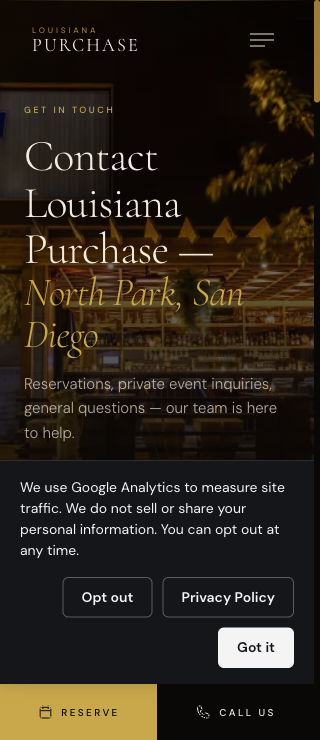
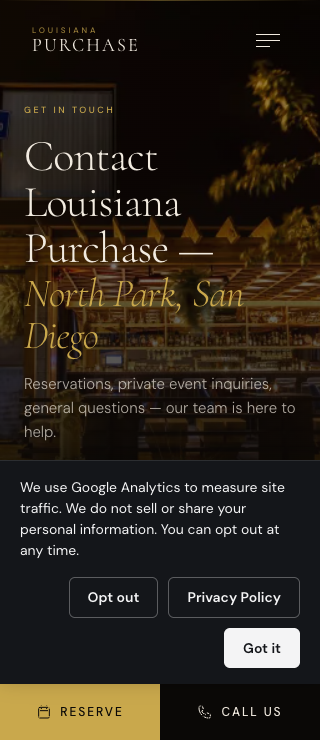
Fix mobile bar menu focus and increase label readability

diff --git a/src/styles/global.css b/src/styles/global.css
@@ -22,10 +22,15 @@
 
 /* One shared reserve for the fixed bar, including two lines of enlarged CTA
    text and the device safe area. Desktop keeps its existing layout. */
-:root { --mobile-action-bar-space: 0px; }
+:root {
+  --mobile-action-bar-font-size: var(--text-xs);
+  --mobile-action-bar-line-height: 1.2;
+  --mobile-action-bar-padding: 0.75rem;
+  --mobile-action-bar-space: 0px;
+}
 @media (width < 1280px) {
   :root {
-    --mobile-action-bar-space: calc(max(3.5rem, 2 * 0.625rem * 1.2 + 2rem) + env(safe-area-inset-bottom, 0px));
+    --mobile-action-bar-space: calc(max(3.5rem, 2 * var(--mobile-action-bar-font-size) * var(--mobile-action-bar-line-height) + 2 * var(--mobile-action-bar-padding)) + env(safe-area-inset-bottom, 0px));
   }
   html { scroll-padding-bottom: var(--mobile-action-bar-space); }
   body.public-site { padding-bottom: var(--mobile-action-bar-space); }

diff --git a/docs/mobile-action-bar/verification.md b/docs/mobile-action-bar/verification.md
@@ -6,9 +6,9 @@ Implemented on `feature/mobile-reserve-call-bar`, based on current `origin/main`
 
 `MobileActionBar.astro` is rendered once by the shared public Layout. All 36 built public HTML pages (including blog, event detail pages, privacy and 404) have the two semantic links. No framework hydration, dependencies or page edits. Visibility uses SiteNav's 1280px desktop breakpoint. The existing viewport already includes `viewport-fit=cover`.
 
-Actions have a 56px minimum height plus `env(safe-area-inset-bottom)`. A shared CSS reserve supplies body padding, scroll padding and the privacy notice offset; its text allowance supports wrapped labels. Decorative SVGs, real hrefs and inset focus outlines support access without site JavaScript. The bar uses z-index overlay (20), below drawer (39), navigation (40), privacy notice (9999), and native dialog top layer. Privacy actions can wrap at 320px.
+Actions have a shared 56px normal height plus `env(safe-area-inset-bottom)`. Shared CSS values for the 12px font token, line height and text space compute the bar height, body padding, scroll padding and privacy notice offset. The bar uses that computed block size so wrapped labels cannot expand its grid beyond the page reserve. Icon and label groups can wrap when text is enlarged. Decorative SVGs, real hrefs and inset focus outlines support access without site JavaScript. The bar uses z-index overlay (20), below drawer (39), navigation (40), privacy notice (9999), and native dialog top layer. Privacy actions can wrap at 320px.
 
-Colors from the active Tailwind 4 global @theme: gold `#C9A84C`, obsidian `#0A0806`, parchment `#F2EBE0`. Contrast: gold/obsidian 8.75:1; parchment/obsidian 16.89:1. Typography matches the existing mobile Reserve a Table CTA: DM Sans Variable, 500 weight, 0.625rem, uppercase, 0.24em tracking. Installed versions: Astro 6.4.4, Tailwind 4.3.0; npm/package-lock.
+Colors from the active Tailwind 4 global @theme: gold `#C9A84C`, obsidian `#0A0806`, parchment `#F2EBE0`. Contrast: gold/obsidian 8.75:1; parchment/obsidian 16.89:1. Typography matches the existing mobile Reserve a Table CTA: DM Sans Variable, 500 weight, the existing 0.75rem / 12px `--text-xs` token, uppercase, and the existing 0.16em `--tracking-widest` token. Installed versions: Astro 6.4.4, Tailwind 4.3.0; npm/package-lock.
 
 ## Destinations
 
@@ -44,6 +44,30 @@ External follow-up: in GA4 Admin → Custom definitions, check for an existing e
 - JavaScript-disabled mobile context: both semantic links render with exact destinations and 56px touch targets; reservation default navigation verified with the external response intercepted. Telephone OS handoff is not available in this browser.
 - Analytics: original shared inline script injected into a local test response with a synthetic measurement ID, Google script blocked. Programmatic browser link activation gives exactly one business event per link through contact → menu → contact navigation; the site did not prevent default. Opt out prevents further events. This confirms local dispatch, not GA4 receipt.
 - Private event page iframe and surrounding scroll reserve inspected. Toast's external iframe stayed unloaded, so its internal fields/submission controls and keyboard interaction could not be verified. Physical mobile keyboard, telephone app handoff and physical device checks remain for review.
+
+## PR #12 scoped corrections (2026-10-06)
+
+The existing SiteNav controller now sets native `inert` on the bar when opening its drawer and removes it through the existing closeDrawer function. Toggle, Escape and menu-link navigation use that same lifecycle. A desktop matchMedia change calls closeDrawer, preventing a retained lock when returning to mobile. No inert attribute is rendered in HTML, so links retain normal interaction without site JavaScript. No second menu controller or menu state was added.
+
+Labels now use the existing 12px typography token with 0.16em tracking. The former duplicated 0.625rem sizing assumption is removed. Font, line height and text allowance feed one shared computed block size, used by both the fixed bar and the page reserve. Normal height remains 56px; enlarged groups can wrap inside their action.
+
+Actual local Chrome / Playwright browser regression verification (Chrome 154):
+
+- Native Enter opens the menu. 70 forward Tabs plus 70 reverse Tabs never focus either bar link; a focusin listener records zero bar focus events while inert.
+- Native toggle Enter, Escape, menu-link Enter navigation, and crossing 1280px then returning to 320px all clear inert. After every close path, native Tab from the final footer link reaches Reserve, then Call Us. No-JavaScript HTML retains both real links without inert.
+- At 320/375/390/430px and 100/200/300/400% root text: equal halves, all label bounds inside their actions, and bar height equal to body reserve (56/112/168/224px respectively). Normal text has no horizontal overflow. Existing page headings can overflow when enlarged; their presentation was preserved.
+- Visible at 1279px; hidden at 1280px and 1440px. No retained inert state after returning to mobile.
+- A 34px Chromium safe-area override produces matching 90px bar and body reserve. Footer bottom scrolls above the bar.
+- Native keyboard Enter activation of each bar link produces exactly one reservation_click and one phone_click, with cta_location: mobile_bottom_bar, through contact → menu → contact. Synthetic GA ID and blocked Google network requests verify local dispatch only.
+- Final production build passes. Five focused Node tests pass. Full npm test has 9 passing and the same four baseline Keystatic image failures. Astro check has only the previously documented Keystatic TS2353 baseline error and two existing hints. Available Prettier passes the browser checker and report; Astro formatting plugin/lint script remain unavailable. git diff --check passes.
+
+The repeatable browser checker is `tests/mobile-action-bar.browser.mjs`. It uses a separately available Playwright installation and local Chrome, without adding project dependencies. Run against the built site served on port 4322 (or set LP_BASE_URL):
+
+```sh
+LP_PLAYWRIGHT_MODULE=/absolute/path/to/playwright/index.mjs node tests/mobile-action-bar.browser.mjs
+```
+
+All eight affected screenshots were refreshed and inspected. These are browser simulations, not physical-device testing. Prior Toast iframe/physical keyboard and GA4 DebugView limitations remain. GA4 custom-dimension follow-up is unchanged.
 
 ## Screenshots
 
